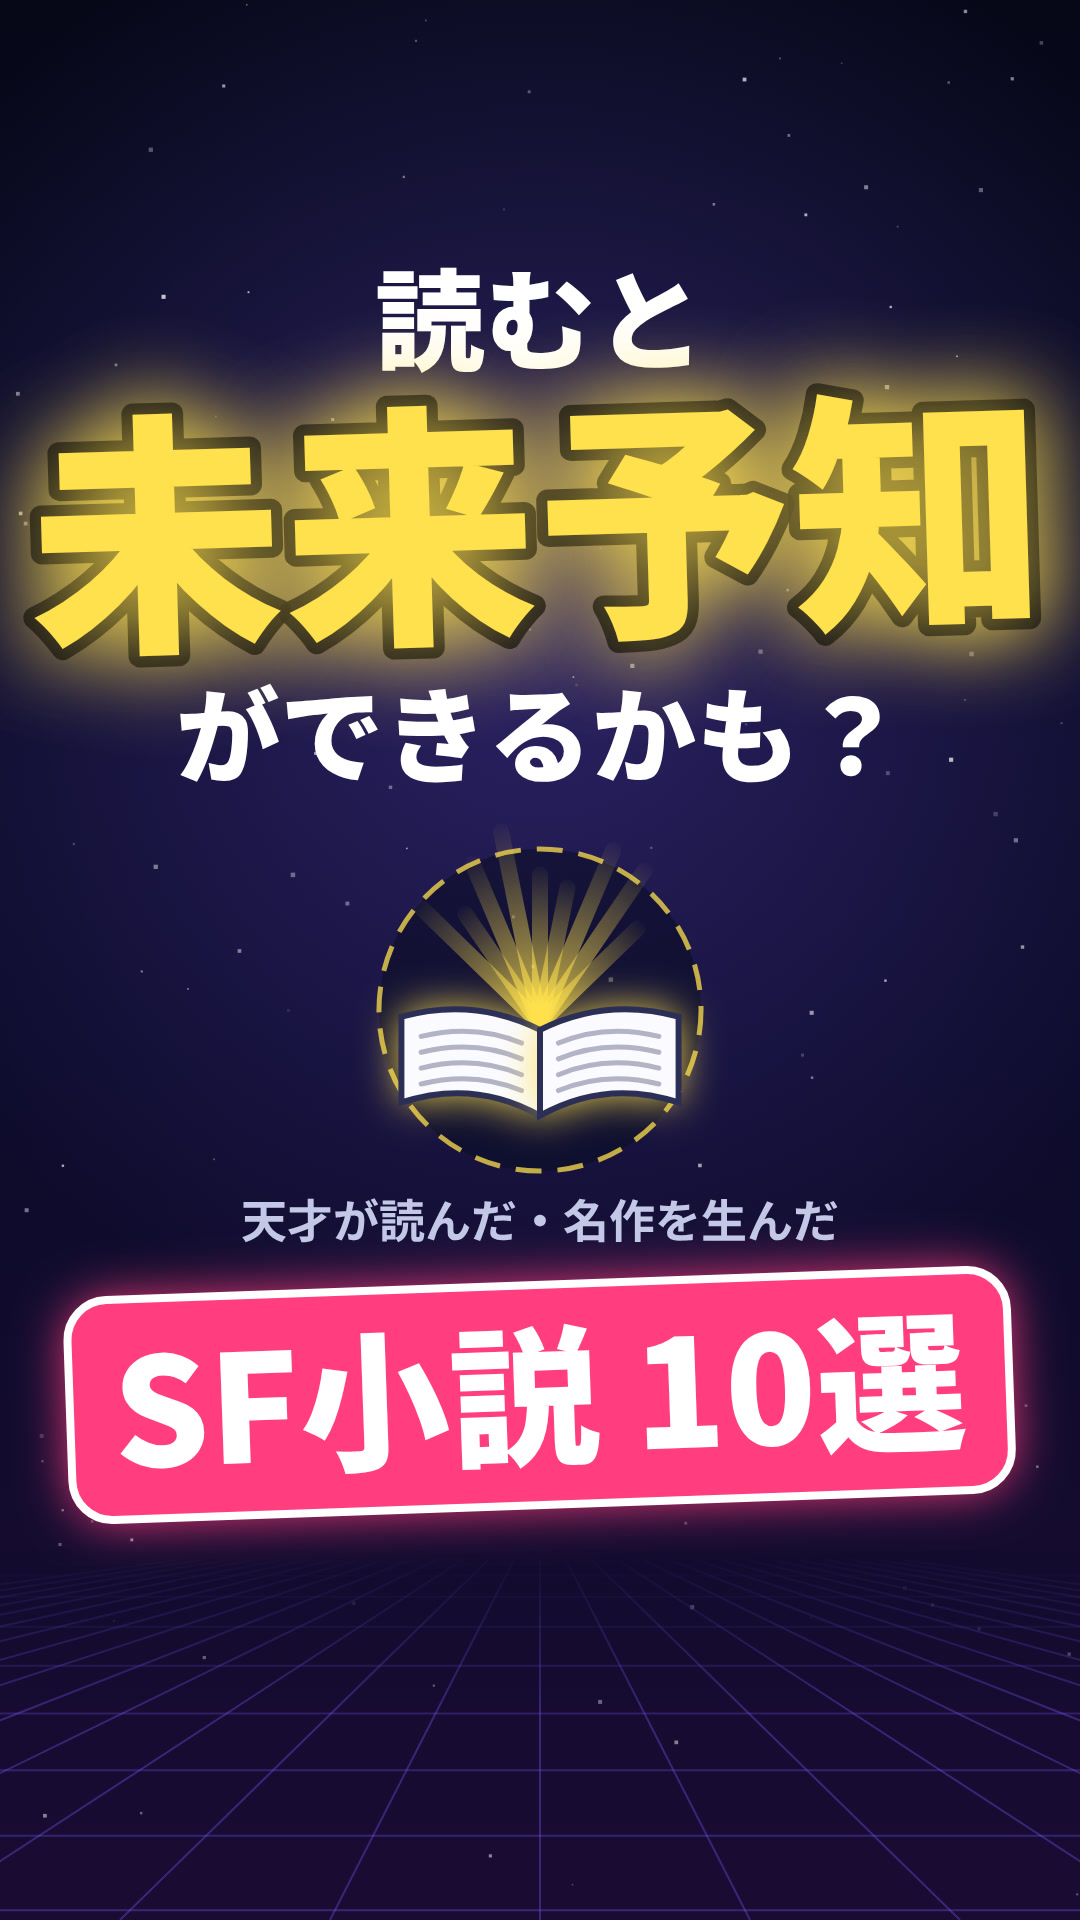
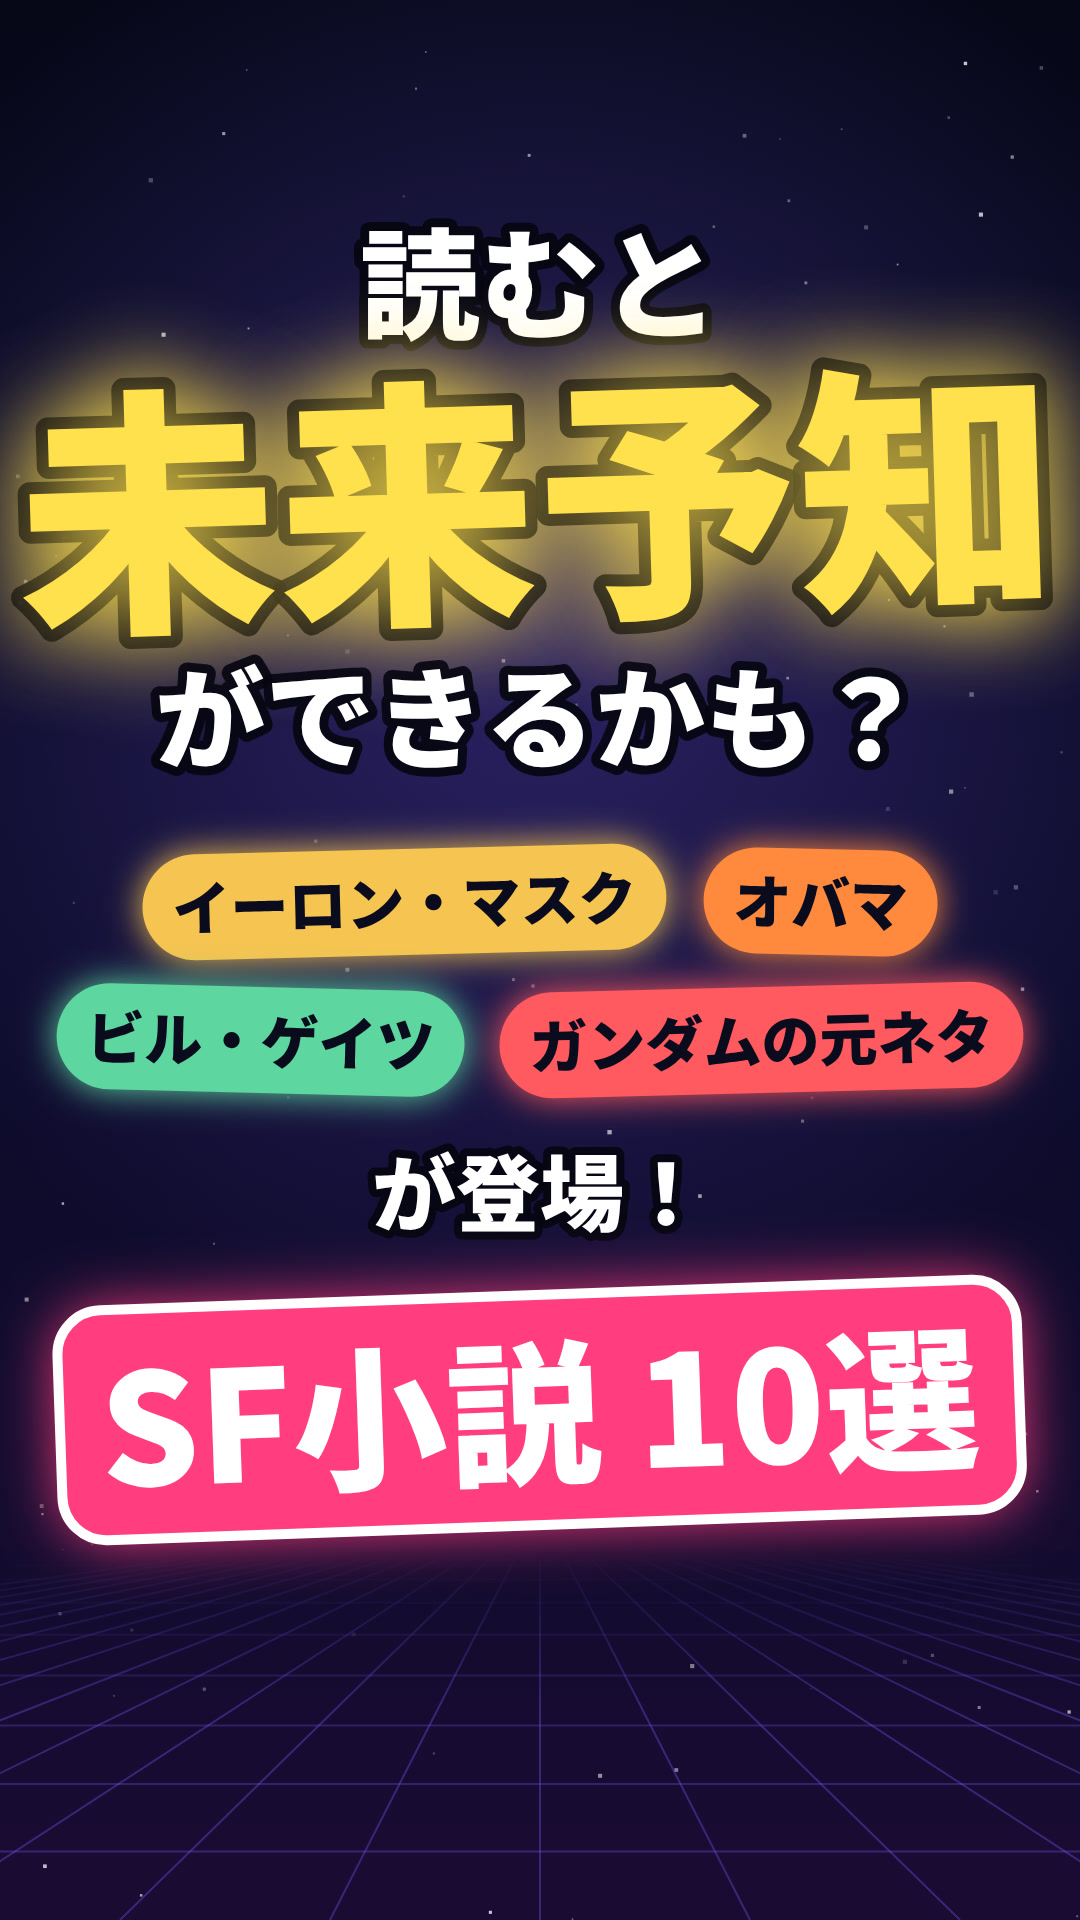
専用レイアウトのサムネイルを追加
Claude-Session: https://claude.ai/code/session_01WGta2TrkWXmFvmsqeChfdD

diff --git a/sf-novels-shorts/render.html b/sf-novels-shorts/render.html
@@ -461,8 +461,41 @@ function render(t) {
   if (fo > 0) { ctx.fillStyle = `rgba(5,6,15,${fo})`; ctx.fillRect(0, 0, W, H); }
 }
 
+// ---------- サムネイル(専用レイアウト) ----------
+function renderThumb() {
+  const t = 2.0;
+  background(t, '#7C5CFF');
+  text('読むと', W / 2, 330, { size: 120, weight: 900, align: 'center', stroke: 18 });
+  ctx.save(); ctx.translate(W / 2, 600); ctx.rotate(-0.03);
+  text('未来予知', 0, 0, { size: 260, weight: 900, color: C.hook, align: 'center', glow: 'rgba(255,225,77,0.9)', stroke: 24, maxW: 1040 });
+  ctx.restore();
+  text('ができるかも？', W / 2, 760, { size: 110, weight: 900, align: 'center', stroke: 18 });
+  // 名前のチップ
+  const rows = [[['イーロン・マスク', '#F5C451'], ['オバマ', '#FF8A3D']], [['ビル・ゲイツ', '#5ED6A0'], ['ガンダムの元ネタ', '#FF5A5F']]];
+  const CS = 58, PADX = 30, GAP = 36;
+  rows.forEach((row, ri) => {
+    setFont(CS, 900);
+    const ws = row.map(([l]) => ctx.measureText(l).width + PADX * 2);
+    let x = (W - ws.reduce((a, b) => a + b, 0) - GAP * (row.length - 1)) / 2;
+    row.forEach(([label, col], i) => {
+      ctx.save(); ctx.translate(x + ws[i] / 2, 925 + ri * 138); ctx.rotate((i + ri) % 2 ? 0.025 : -0.025);
+      rr(-ws[i] / 2, -76, ws[i], 106, 53); ctx.fillStyle = col; ctx.shadowColor = col; ctx.shadowBlur = 35; ctx.fill(); ctx.shadowBlur = 0;
+      text(label, 0, 0, { size: CS, weight: 900, color: '#0a0c1e', align: 'center' });
+      ctx.restore();
+      x += ws[i] + GAP;
+    });
+  });
+  text('が登場！', W / 2, 1225, { size: 84, weight: 900, align: 'center', stroke: 16 });
+  ctx.save(); ctx.translate(W / 2, 1420); ctx.rotate(-0.035);
+  rr(-480, -125, 960, 230, 44); ctx.fillStyle = '#FF3D7F'; ctx.shadowColor = '#FF3D7F'; ctx.shadowBlur = 60; ctx.fill(); ctx.shadowBlur = 0;
+  ctx.strokeStyle = '#fff'; ctx.lineWidth = 10; ctx.stroke();
+  text('SF小説 10選', 0, 52, { size: 160, weight: 900, align: 'center', maxW: 880 });
+  ctx.restore();
+}
+window.renderThumb = renderThumb;
+
 // フォント(必要な文字のサブセット)を読み込んでから描画する
-const ALLTEXT = JSON.stringify(TL) + '天才が読んだ・名作を生んだ未来を作る人はSFを読んでいる。影響関係42z未来を言い当てたSF小説10選読むと予知ができるかも？名作たち次のはもう本の中にある。あなたはどれを読む音声オリジナル※作品と現実の対応には諸説あります小説では発表年▼♪✦／0123456789';
+const ALLTEXT = JSON.stringify(TL) + 'イーロン・マスクオバマビル・ゲイツガンダムの元ネタが登場！天才が読んだ・名作を生んだ未来を作る人はSFを読んでいる。影響関係42z未来を言い当てたSF小説10選読むと予知ができるかも？名作たち次のはもう本の中にある。あなたはどれを読む音声オリジナル※作品と現実の対応には諸説あります小説では発表年▼♪✦／0123456789';
 window.ready = Promise.all([500, 700, 900].map(w => document.fonts.load(`${w} 40px "Noto Sans JP"`, ALLTEXT))).then(() => render(0));
 window.render = render; window.FPS = FPS; window.DURATION = DURATION;
 

diff --git a/sf-novels-shorts/capture.js b/sf-novels-shorts/capture.js
@@ -1,5 +1,6 @@
 // render.html を 1 フレームずつ撮影し、ffmpeg で mp4(無音)にエンコードする
 // 使い方: node capture.js [出力mp4]
+//         node capture.js --thumb             サムネイルだけ output/thumbnail.png に書き出す
 //         node capture.js --stills 1.5,8,20   指定秒の静止画だけ output/still_*.png に書き出す(確認用)
 const { chromium } = require('playwright');
 const { spawn } = require('child_process');
@@ -17,6 +18,11 @@ const fs = require('fs');
   const { FPS, DURATION } = await page.evaluate(() => ({ FPS: window.FPS, DURATION: window.DURATION }));
   const grab = async t => Buffer.from((await page.evaluate(t => { window.render(t); return document.getElementById('c').toDataURL('image/png'); }, t)).split(',')[1], 'base64');
 
+  const thumb = async () => {
+    const png = Buffer.from((await page.evaluate(() => { window.renderThumb(); return document.getElementById('c').toDataURL('image/png'); })).split(',')[1], 'base64');
+    fs.writeFileSync(path.join(outDir, 'thumbnail.png'), png); console.log('wrote thumbnail.png');
+  };
+  if (process.argv[2] === '--thumb') { await thumb(); await browser.close(); return; }
   if (process.argv[2] === '--stills') {
     for (const s of process.argv[3].split(',')) {
       const f = path.join(outDir, `still_${s}.png`);
@@ -39,9 +45,7 @@ const fs = require('fs');
   }
   ff.stdin.end();
   await done;
-  // サムネイル(イントロの決めフレーム)
-  const intro = await page.evaluate(() => window.TIMELINE.scenes[0]);
-  fs.writeFileSync(path.join(outDir, 'thumbnail.png'), await grab(intro.end - 0.4));
+  await thumb();
   await browser.close();
   console.log('wrote', out);
 })().catch(e => { console.error(e); process.exit(1); });
